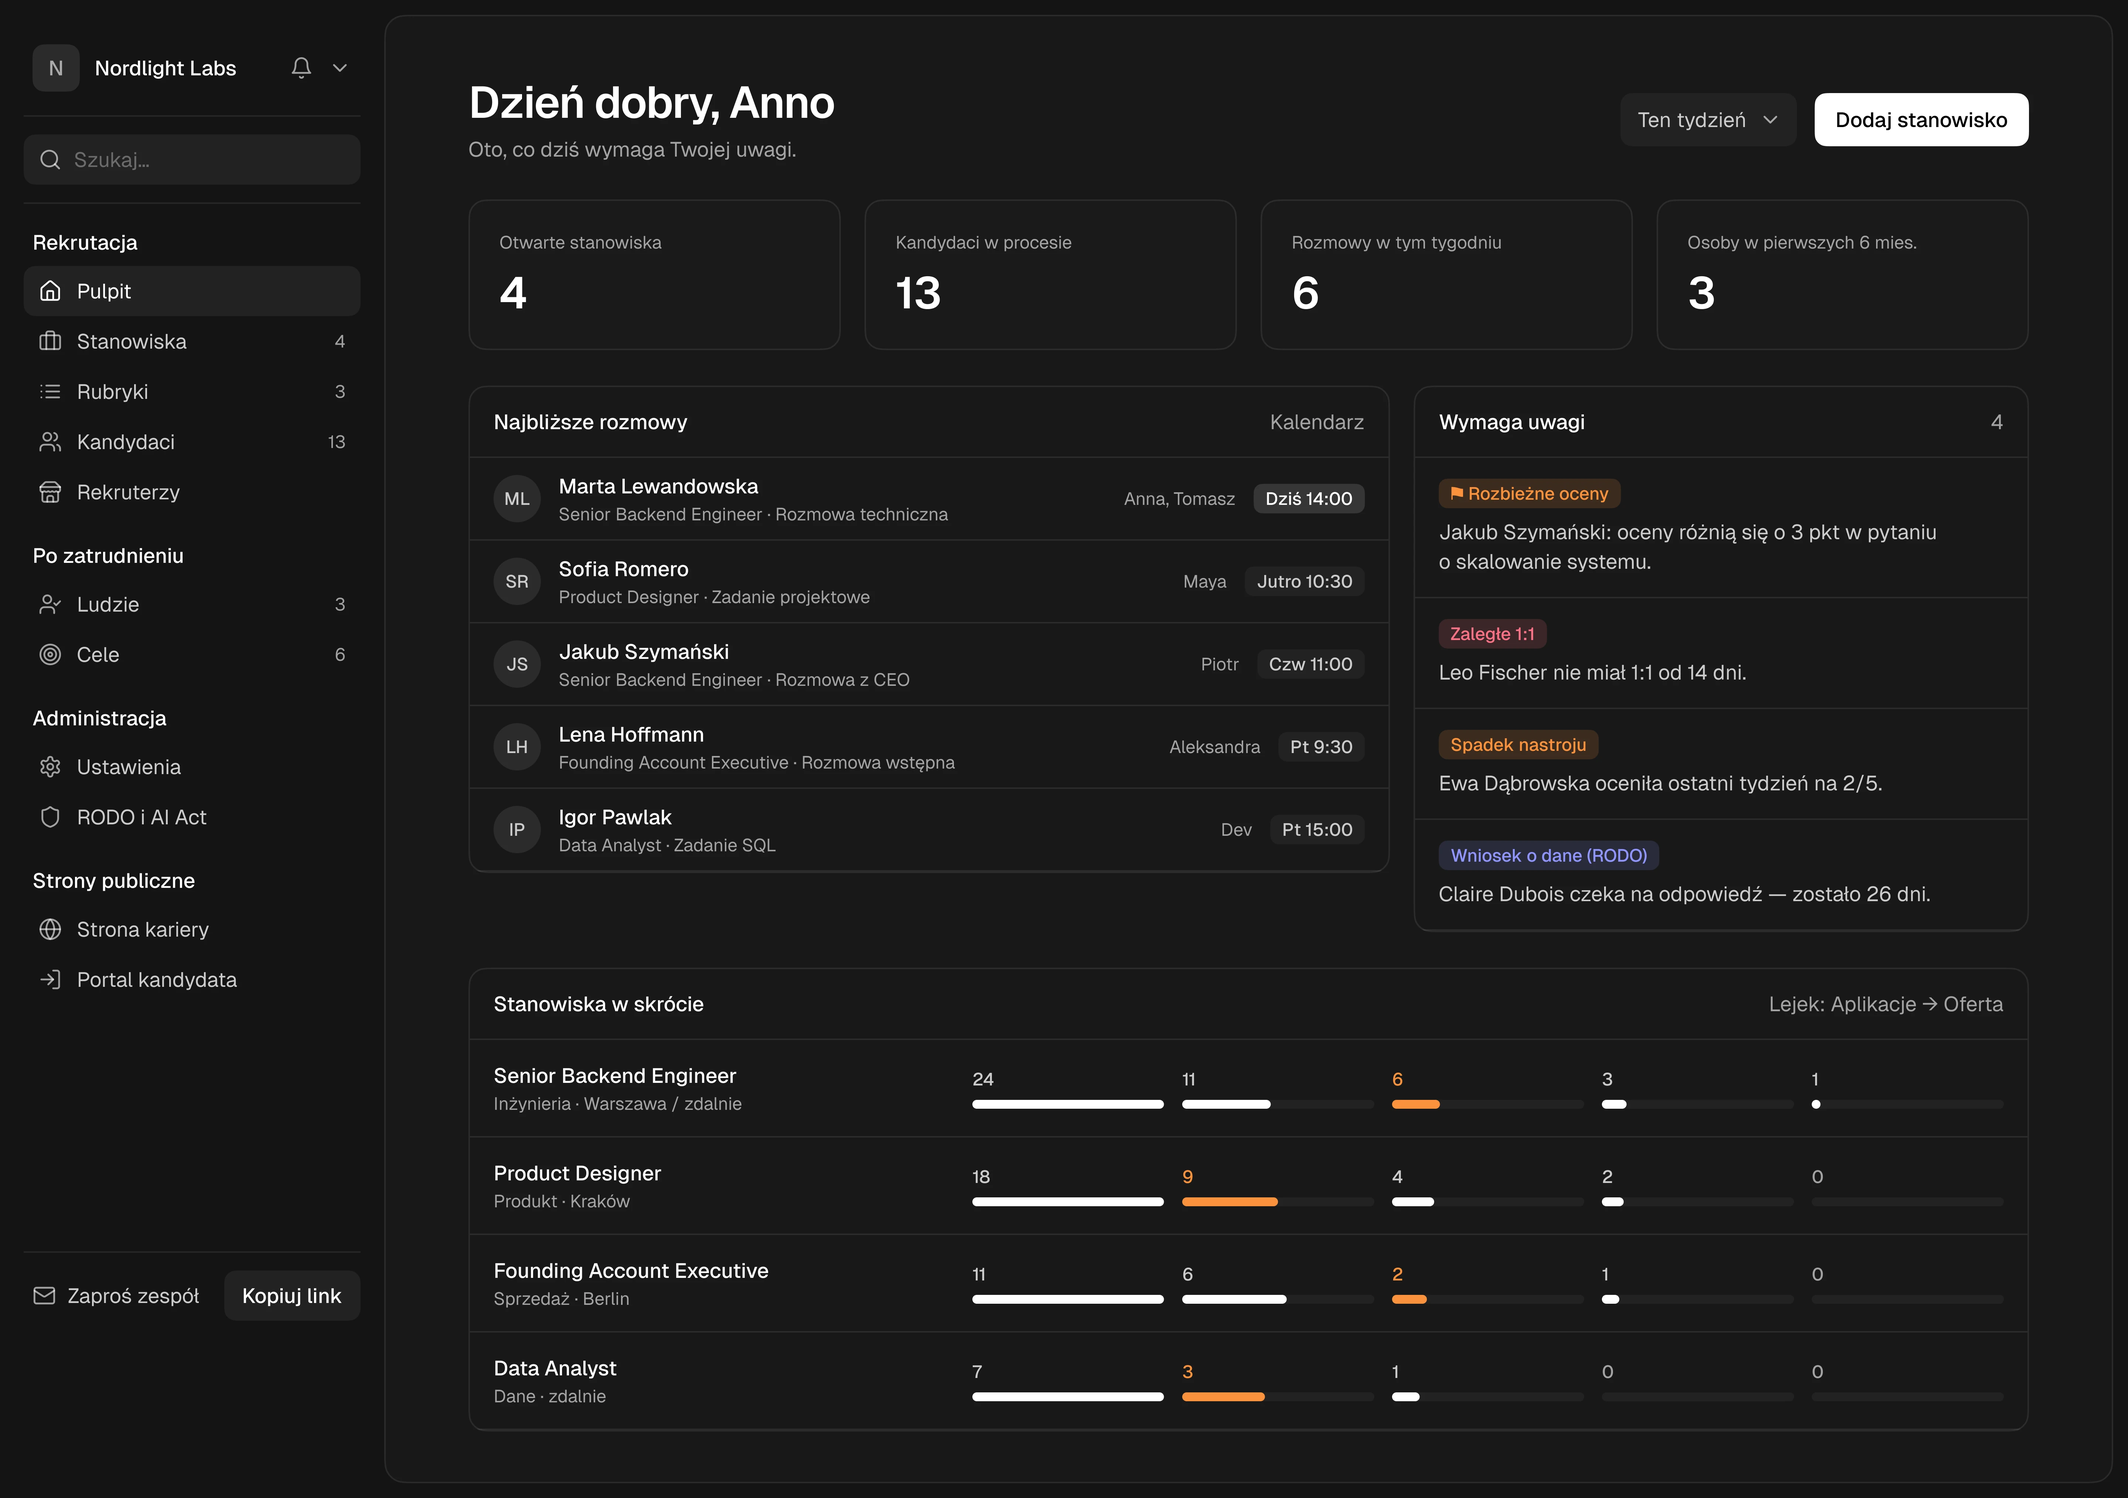
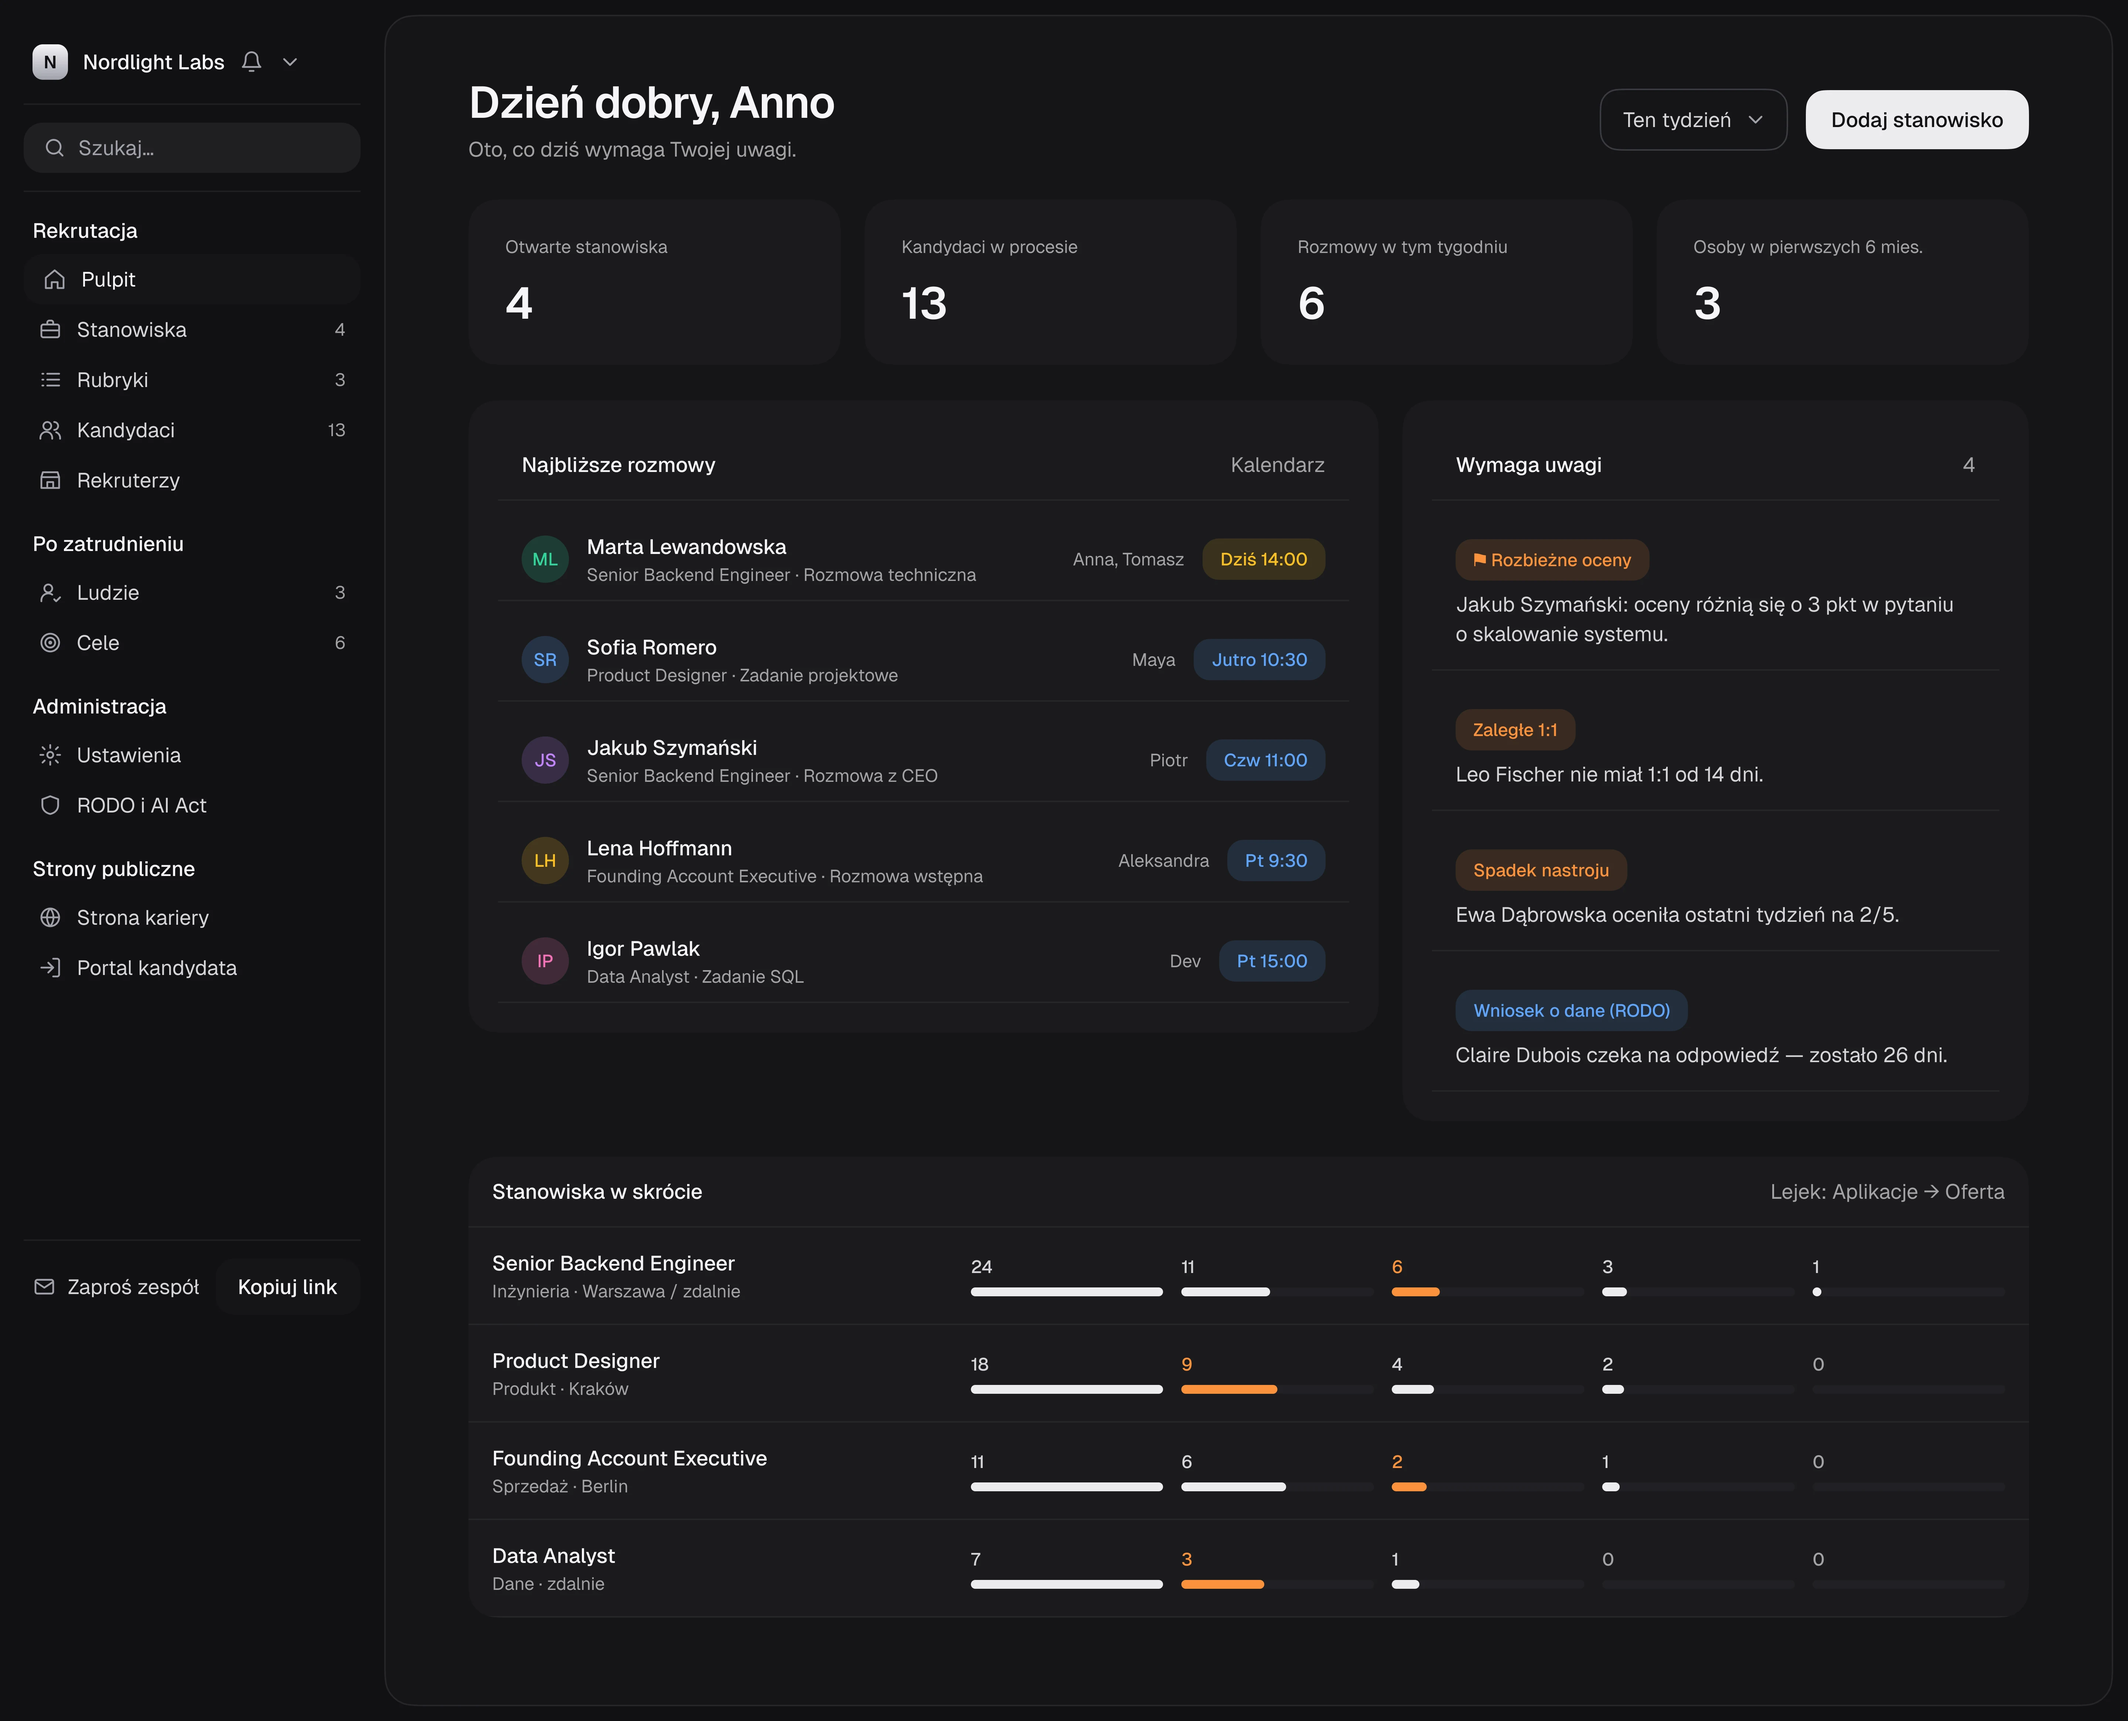
Gallery: Linear-style dark app screenshots (new palette, Geist, placeholder workspace tile)
Claude-Session: https://claude.ai/code/session_011jafF1ujRt61ECkovT2K22

diff --git a/site/index.html b/site/index.html
@@ -266,10 +266,10 @@
       <h2>Tak wygląda Tekma <span class="gr">w środku.</span></h2>
       <p class="lede">Prawdziwe ekrany aplikacji, z danymi przykładowymi. Jasne, spokojne, bez zbędnych ozdobników.</p>
     </div>
-    <div class="shots" id="shots" data-shots='[{"src": "assets/screens/dashboard.webp?v=linear1", "t": "Pulpit", "d": "Co dziś wymaga Twojej uwagi — rozbieżne oceny, braki w stanowiskach, liczniki procesu.", "w": 1440, "h": 1014}, {"src": "assets/screens/positions.webp?v=linear1", "t": "Stanowiska", "d": "Wszystkie rekrutacje w jednym miejscu, z mini-lejkiem i rubryką przypisaną do roli.", "w": 1440, "h": 900}, {"src": "assets/screens/pipeline.webp?v=linear1", "t": "Lejek", "d": "Kandydaci w etapach. Przeciągnij kartę albo użyj klawiatury — o ruchu zawsze decydujesz Ty.", "w": 1440, "h": 900}, {"src": "assets/screens/candidates.webp?v=linear1", "t": "Kandydaci", "d": "Wspólna baza z wyszukiwaniem, filtrami i dopasowaniem CV jako sugestią AI.", "w": 1440, "h": 900}, {"src": "assets/screens/scorecard.webp?v=linear1", "t": "Karta oceny", "d": "Pytania z rubryki, kotwice ocen i sugestie AI z cytatem z rozmowy.", "w": 1440, "h": 900}, {"src": "assets/screens/scorecard-diff.webp?v=linear1", "t": "Rozbieżności", "d": "Gdy oceny są rozbieżne, Tekma flaguje to, zanim zapadnie decyzja.", "w": 1440, "h": 934}, {"src": "assets/screens/rubrics.webp?v=linear1", "t": "Rubryki", "d": "Pytania, wagi i kotwice w wersjach — ta sama miarka dla każdego kandydata.", "w": 1440, "h": 900}]'>
+    <div class="shots" id="shots" data-shots='[{"src": "assets/screens/dashboard.webp?v=linear2", "t": "Pulpit", "d": "Co dziś wymaga Twojej uwagi — rozbieżne oceny, braki w stanowiskach, liczniki procesu.", "w": 1440, "h": 1165}, {"src": "assets/screens/positions.webp?v=linear2", "t": "Stanowiska", "d": "Wszystkie rekrutacje w jednym miejscu, z mini-lejkiem i rubryką przypisaną do roli.", "w": 1440, "h": 900}, {"src": "assets/screens/pipeline.webp?v=linear2", "t": "Lejek", "d": "Kandydaci w etapach. Przeciągnij kartę albo użyj klawiatury — o ruchu zawsze decydujesz Ty.", "w": 1440, "h": 934}, {"src": "assets/screens/candidates.webp?v=linear2", "t": "Kandydaci", "d": "Wspólna baza z wyszukiwaniem, filtrami i dopasowaniem CV jako sugestią AI.", "w": 1440, "h": 900}, {"src": "assets/screens/scorecard.webp?v=linear2", "t": "Karta oceny", "d": "Pytania z rubryki, kotwice ocen i sugestie AI z cytatem z rozmowy.", "w": 1440, "h": 900}, {"src": "assets/screens/scorecard-diff.webp?v=linear2", "t": "Rozbieżności", "d": "Gdy oceny są rozbieżne, Tekma flaguje to, zanim zapadnie decyzja.", "w": 1440, "h": 1093}, {"src": "assets/screens/rubrics.webp?v=linear2", "t": "Rubryki", "d": "Pytania, wagi i kotwice w wersjach — ta sama miarka dla każdego kandydata.", "w": 1440, "h": 900}]'>
       <div class="shots-tabs" role="tablist" aria-label="Ekrany aplikacji"><button type="button" role="tab" id="tab-dashboard" aria-selected="true" aria-controls="shot" data-i="0" tabindex="0">Pulpit</button><button type="button" role="tab" id="tab-positions" aria-selected="false" aria-controls="shot" data-i="1" tabindex="-1">Stanowiska</button><button type="button" role="tab" id="tab-pipeline" aria-selected="false" aria-controls="shot" data-i="2" tabindex="-1">Lejek</button><button type="button" role="tab" id="tab-candidates" aria-selected="false" aria-controls="shot" data-i="3" tabindex="-1">Kandydaci</button><button type="button" role="tab" id="tab-scorecard" aria-selected="false" aria-controls="shot" data-i="4" tabindex="-1">Karta oceny</button><button type="button" role="tab" id="tab-scorecard-diff" aria-selected="false" aria-controls="shot" data-i="5" tabindex="-1">Rozbieżności</button><button type="button" role="tab" id="tab-rubrics" aria-selected="false" aria-controls="shot" data-i="6" tabindex="-1">Rubryki</button></div>
       <figure class="shots-stage" id="shot" role="tabpanel" aria-labelledby="tab-dashboard">
-        <div class="shot-frame"><img id="shotImg" src="assets/screens/dashboard.webp?v=linear1" width="1440" height="1014" alt="Pulpit Tekma: liczniki procesu i lista spraw wymagających uwagi" loading="lazy"></div>
+        <div class="shot-frame"><img id="shotImg" src="assets/screens/dashboard.webp?v=linear2" width="1440" height="1165" alt="Pulpit Tekma: liczniki procesu i lista spraw wymagających uwagi" loading="lazy"></div>
         <figcaption id="shotCap"><b>Pulpit</b> Co dziś wymaga Twojej uwagi — rozbieżne oceny, braki w stanowiskach, liczniki procesu.</figcaption>
       </figure>
     </div>
